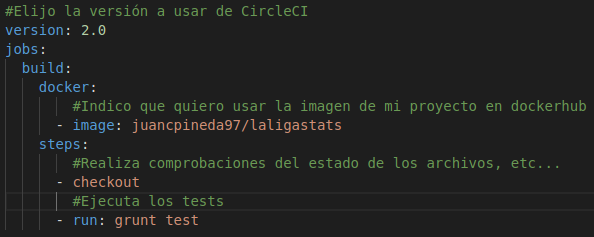
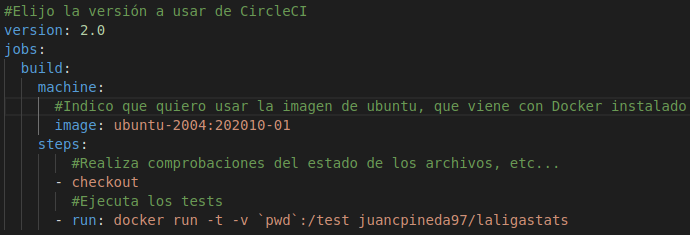
Cambia documentación sobre Circle CI closes #72

Changed region(s): [[0.0, 0.1787, 1.0, 0.983], [0.0, 0.0, 0.5152, 0.1489], [0.0303, 0.834, 0.0606, 0.8638]]

diff --git a/docs/integracion_continua.md b/docs/integracion_continua.md
@@ -20,8 +20,8 @@ Voy a usar como segundo sistema de integración continua Circle CI, ya que éste
 ![conf_circle](img/conf_circle.png)
 
 - Primero, se elige la versión de Circle Ci que quiero usar.
-- Luego, se indica una nueva tarea, build, en la que se indica primero que usaré la imagen de mi proyecto como entorno de ejecución.
-- Por último, se indican los pasos de esta, los cuáles son realizar checkout de los archivos, etc... y luego ejecutar la orden `grunt test` para ejecutar los tests. Al igual que en Travis, si se ejecutan los tests satisfactoriamente y con resultado positivo, se pasará la prueba, en otro caso, dará fallo en la prueba e indicará qué es lo que ha fallado.
+- Luego, se indica una nueva tarea, build, en la que se indica primero que usaré la imagen de ubuntu.
+- Por último, se indican los pasos a seguir, los cuáles son realizar checkout de los archivos, etc... y luego ejecutar la orden `docker run -t -v 'pwd':/test juancpineda97/laligastats` para ejecutar los tests usando la imagen de mi proyecto en DockerHub. Al igual que en Travis, si se ejecutan los tests satisfactoriamente y con resultado positivo, se pasará la prueba, en otro caso, dará fallo en la prueba e indicará qué es lo que ha fallado.
 
 
 ## GitHub Actions
